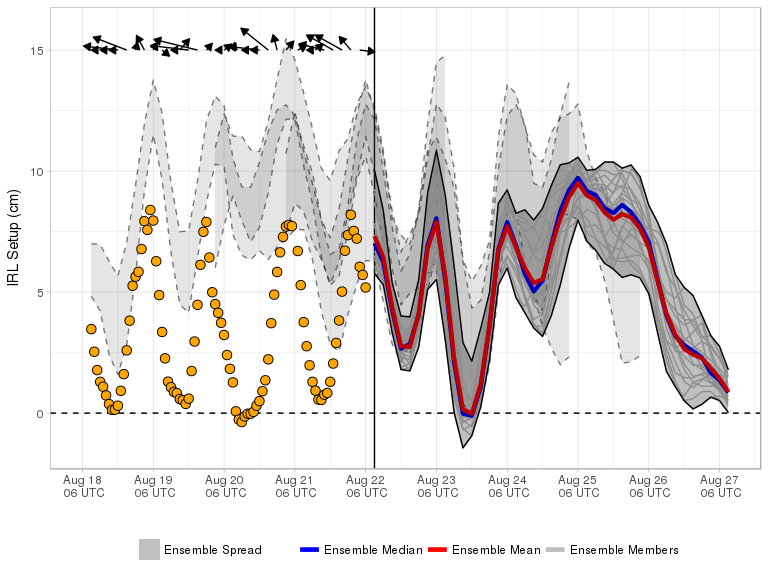
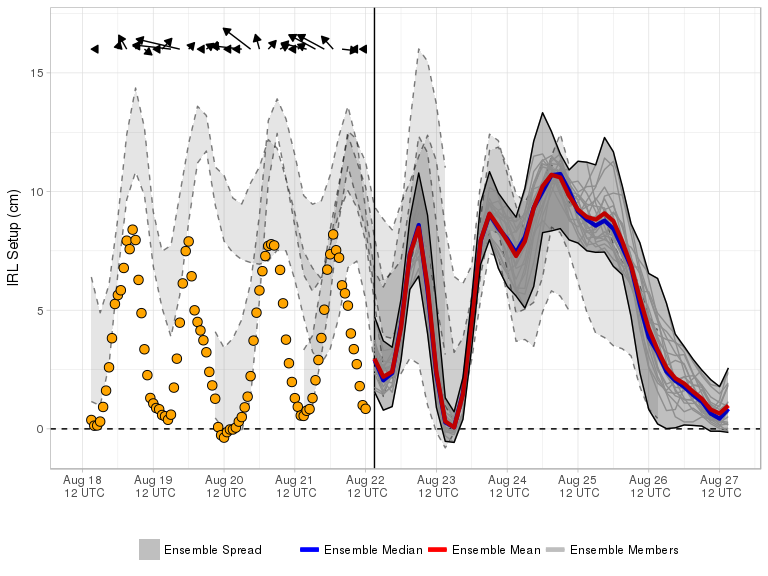
Forecast Update

diff --git a/docs/index.md b/docs/index.md
@@ -1,9 +1,9 @@
-Current Forecast 2018-08-22, Cycle 00 UTC
+Current Forecast 2018-08-22, Cycle 06 UTC
 -----------------------------------------
 
 [![](img/raw_setup.png)](https://fit-winds.github.io/IRLSetup/img/raw_setup.png)
 
-> Forecast valid 2018-08-22 02:32:56.
+> Forecast valid 2018-08-22 08:33:38.
 
 Explanation
 -----------
@@ -23,7 +23,7 @@ Ensemble Forecast System
 cycles. Calculation of the IRL setup is performed shortly after a new
 GEFS cycle is made available on the [data access
 link](http://www.ftp.ncep.noaa.gov/data/nccf/com/gens/prod/). The
-current cycle 2018-08-22 00 UTC 0.5° GEFS mean and median forecasts of
+current cycle 2018-08-22 06 UTC 0.5° GEFS mean and median forecasts of
 setup are represented by the red and blue curves, respectively. Ensemble
 spread from the current and three previous GEFS runs are shaded grey and
 bounded by solid and dashed curves, respectively.
